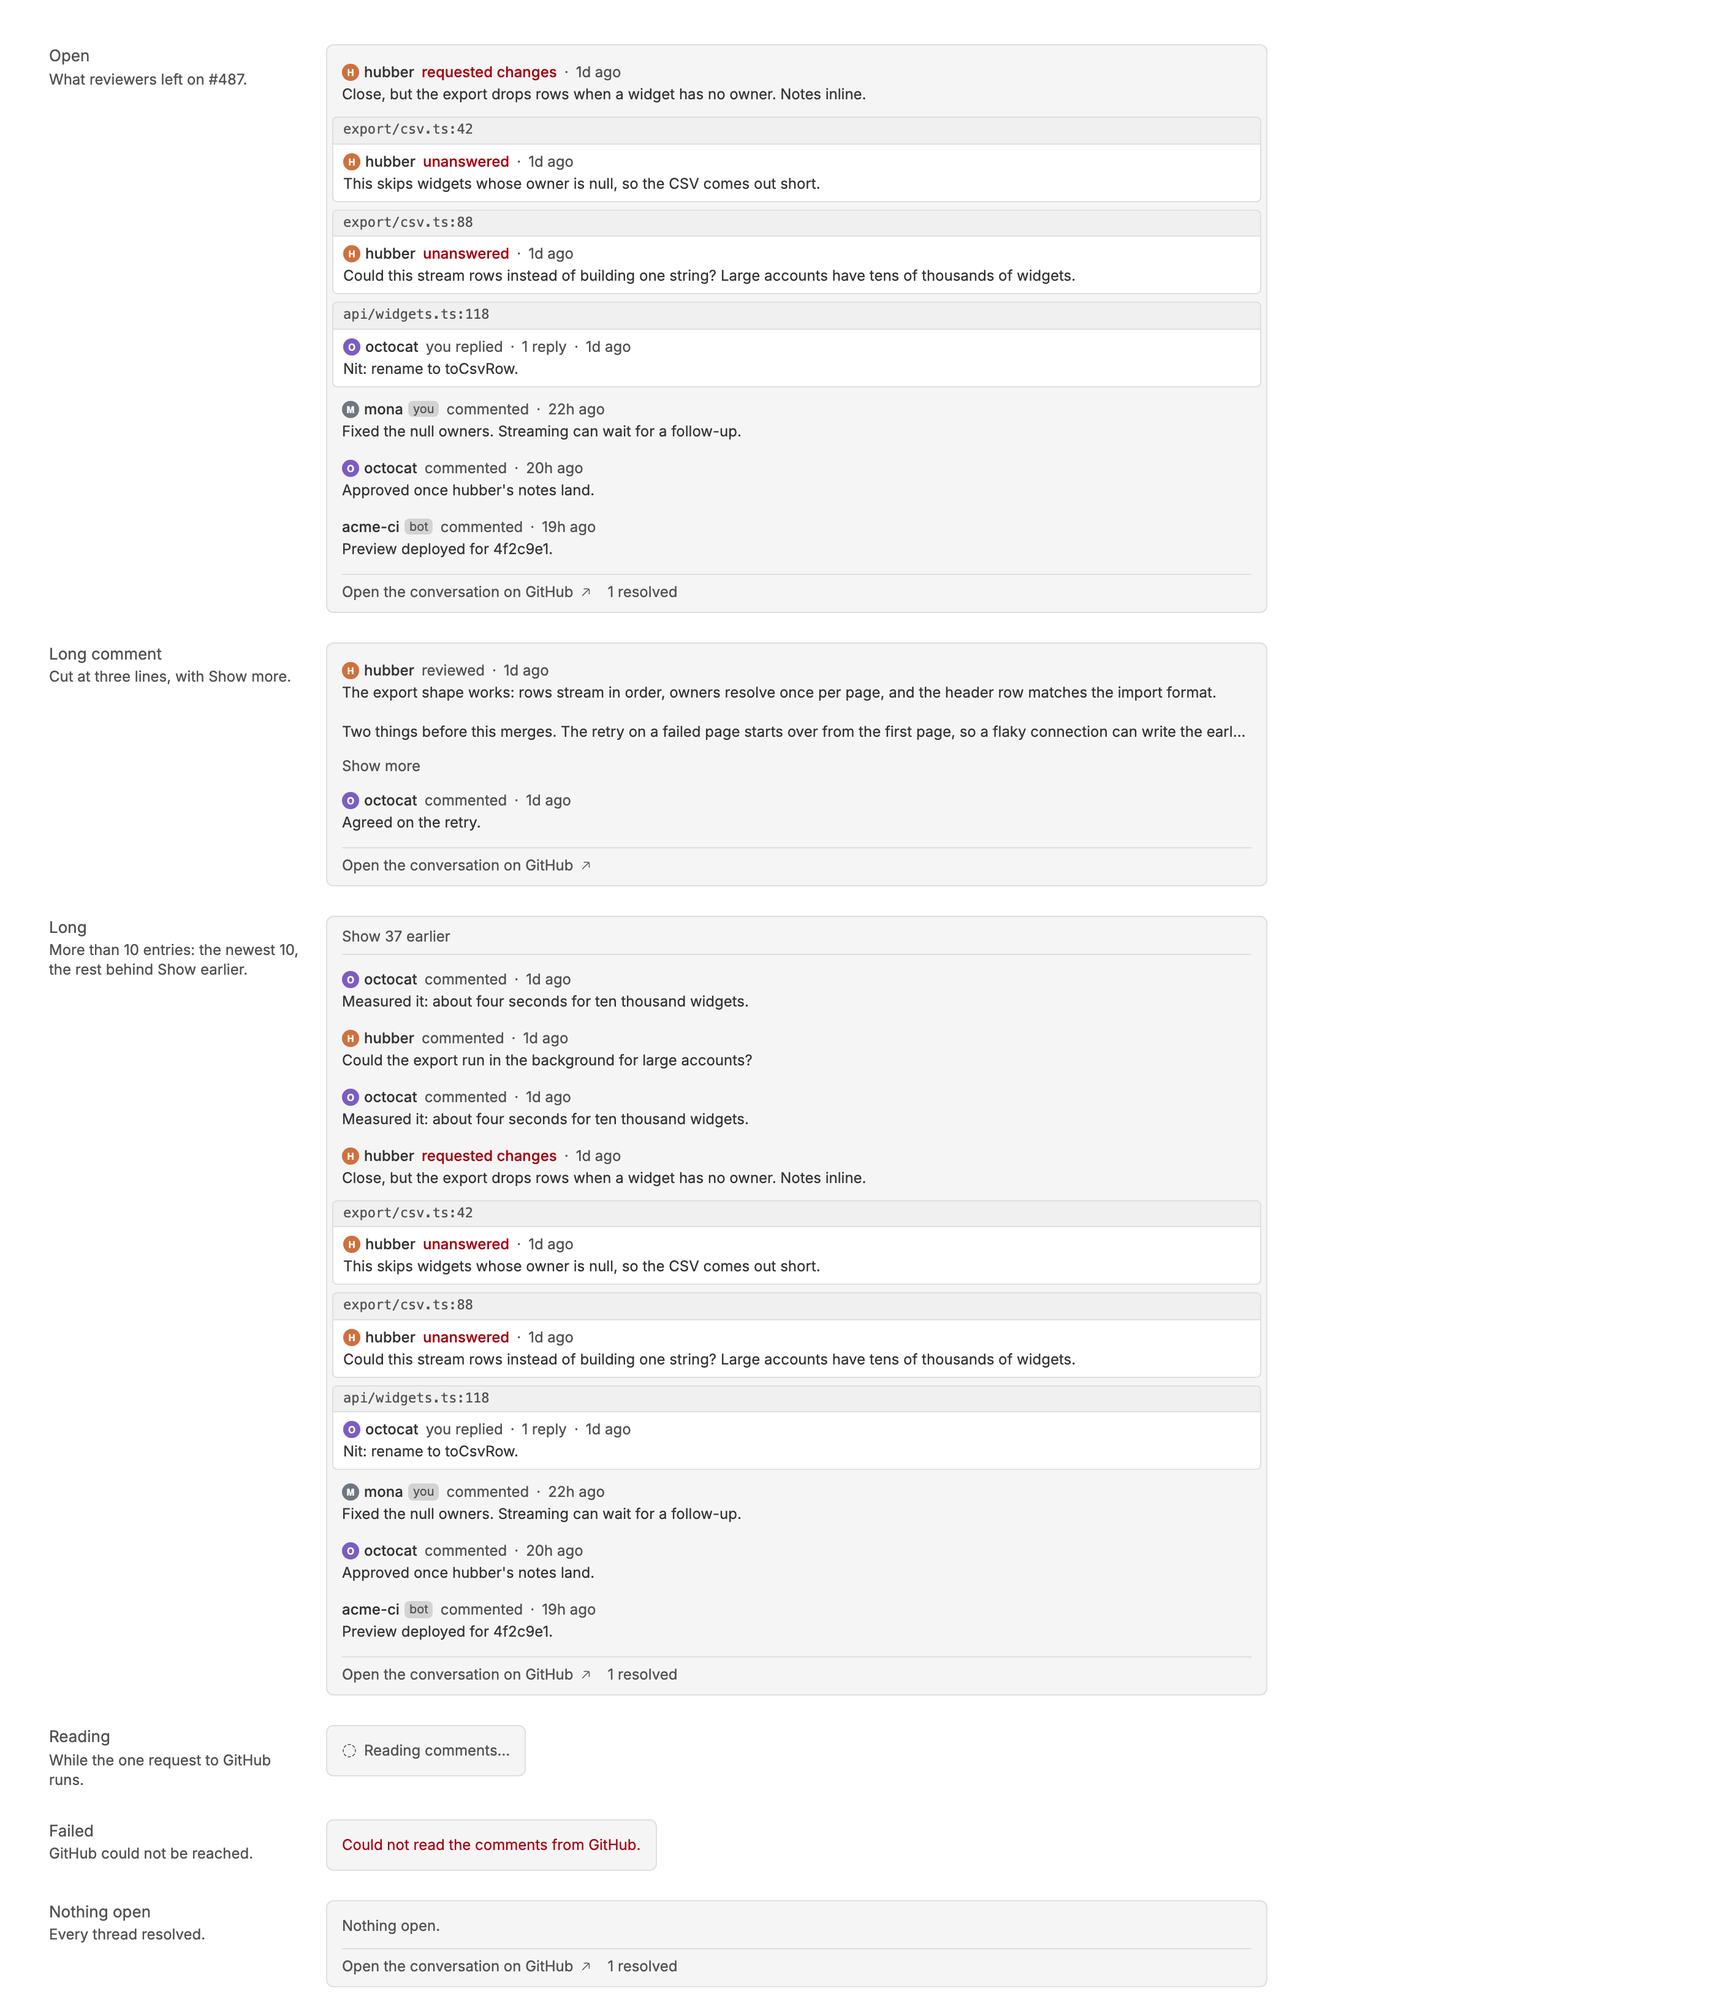
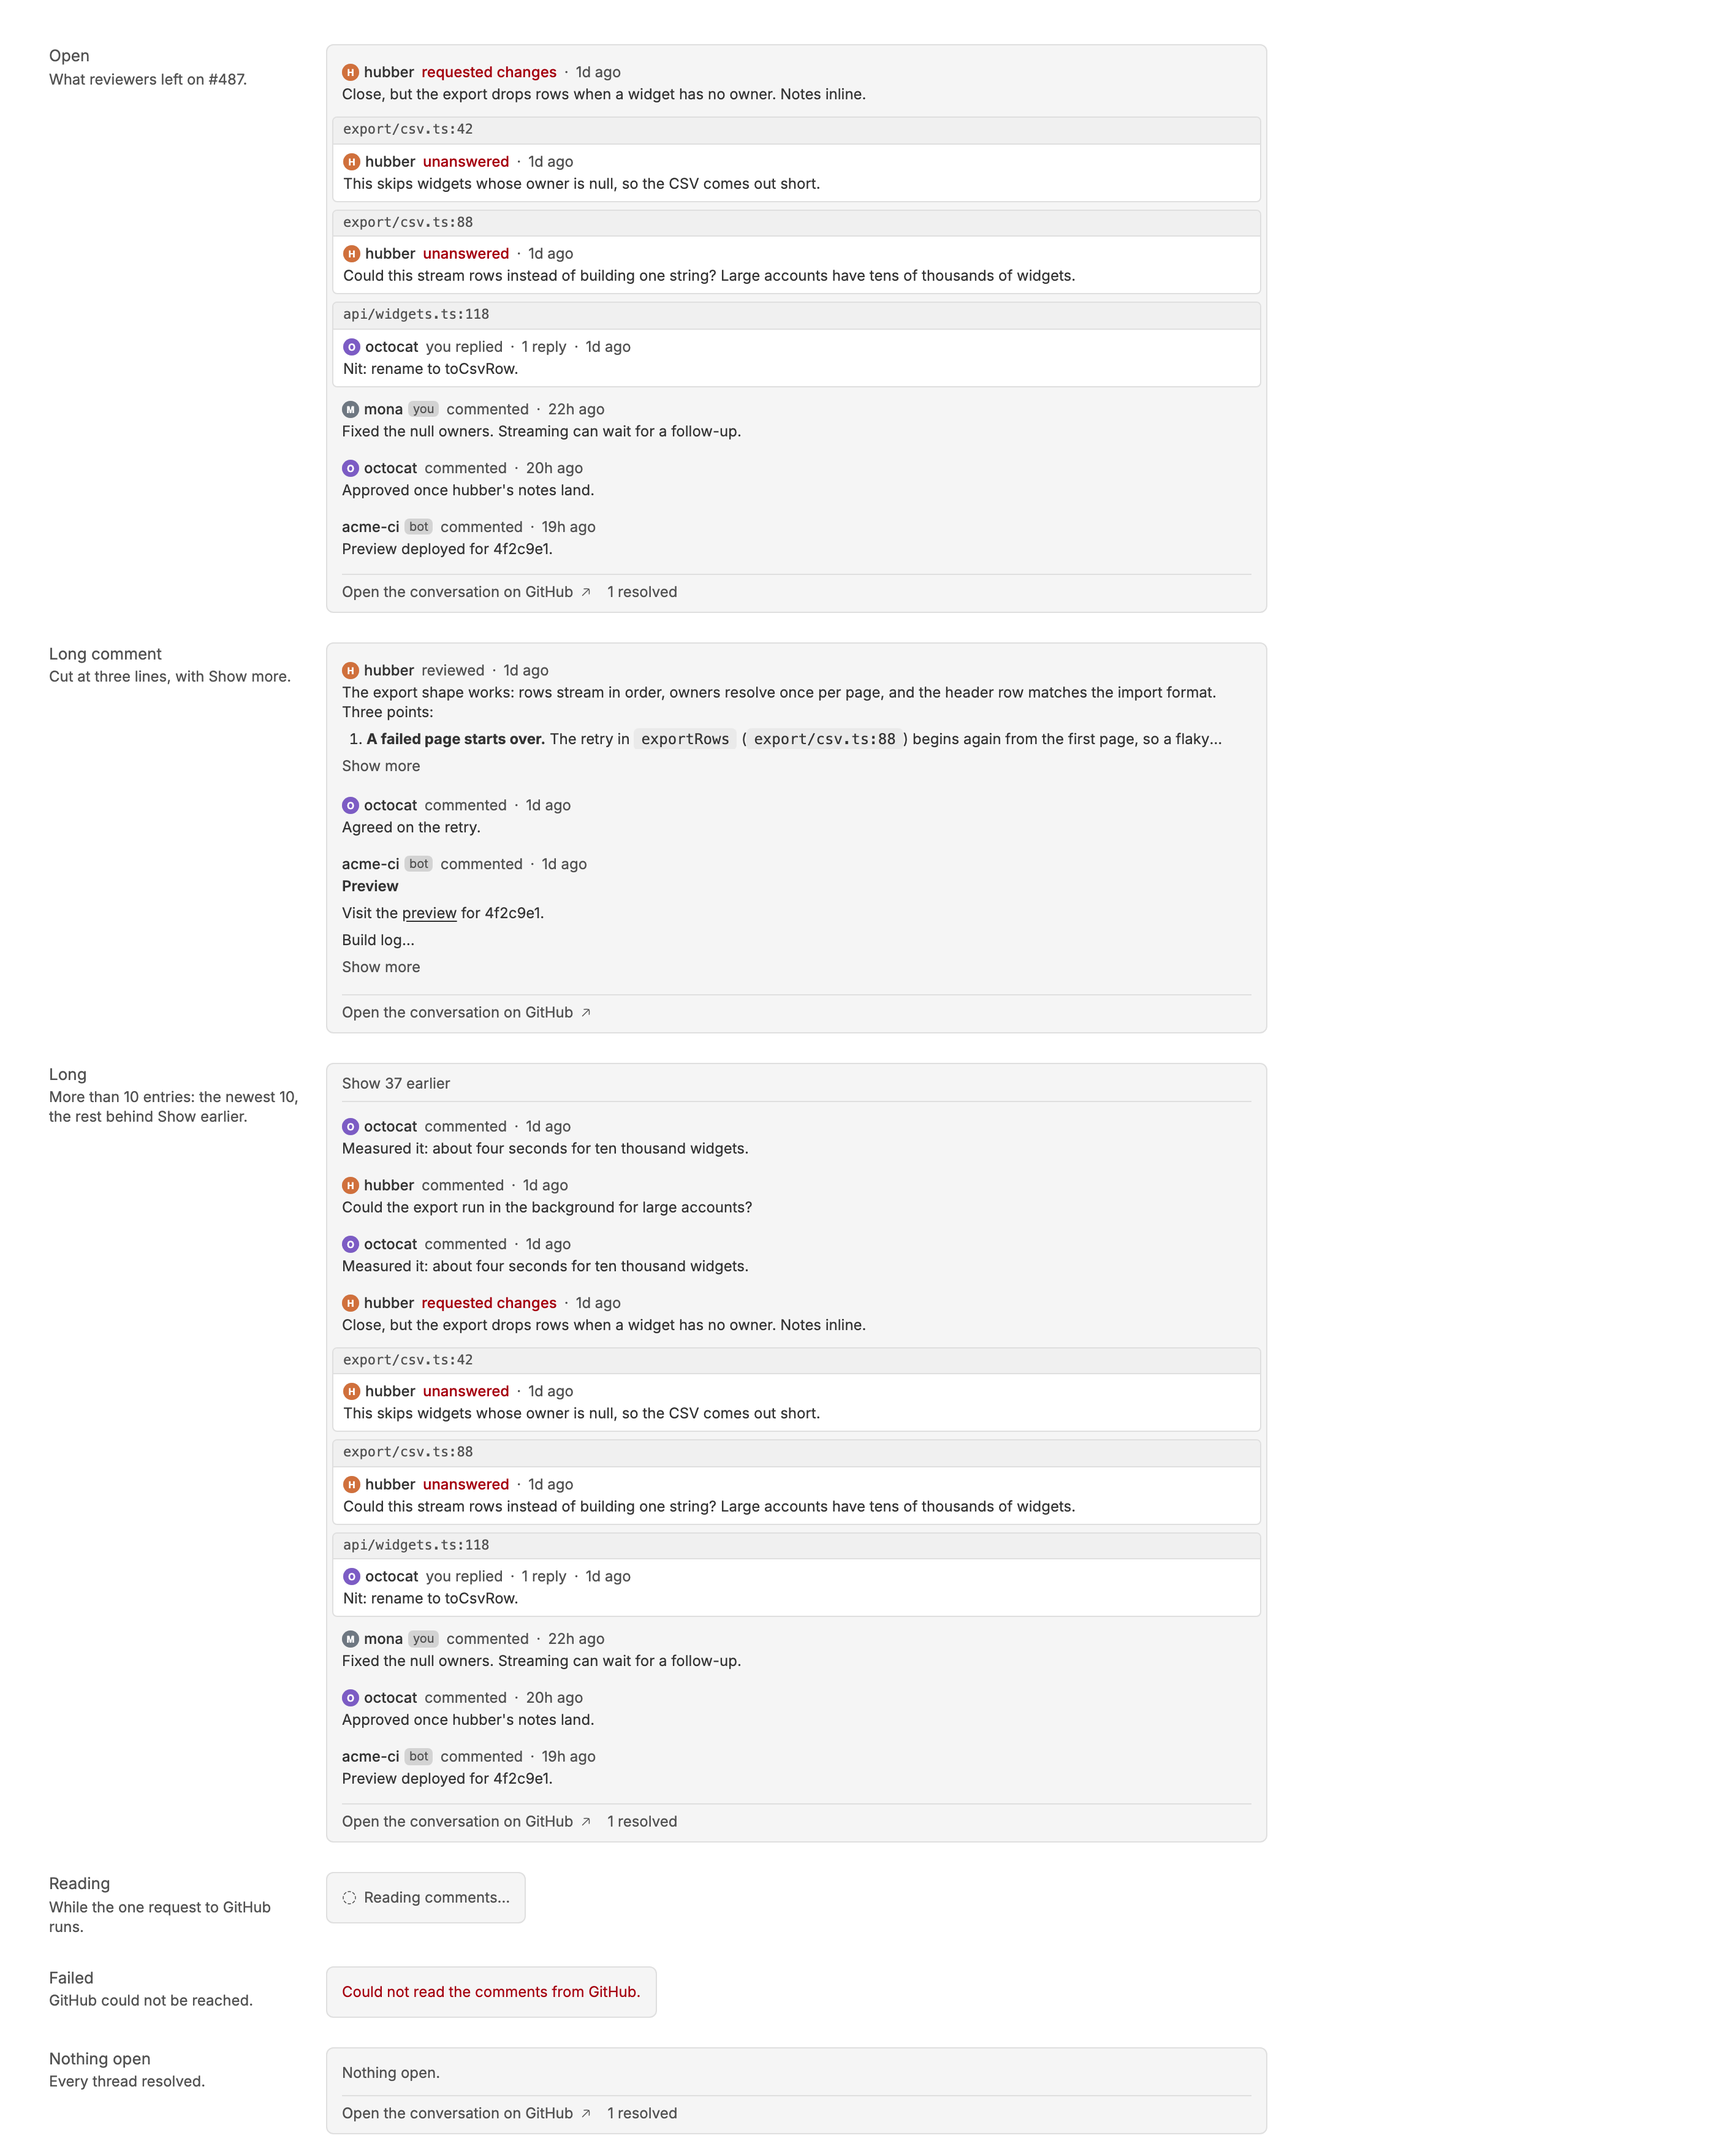
b3a6755 Sweep comments drawer: take HTML tags out of comments
danielbachhuber/bb-plugins@b3a6755dc6cbbb9e7aa60c4baaf4b348e41b8963

diff --git a/pr-sweep/README.md b/pr-sweep/README.md
@@ -22,7 +22,7 @@ Every run the list can draw: needs you, ready to merge, working, drafts, and wai
 
 ### Comments drawer
 
-The drawer a row's comment count opens. The review that requested changes comes first, then the threads still open, unanswered ones marked in red, then general comments. Resolved threads wait behind "1 resolved". Each entry opens on GitHub. A comment longer than three lines is cut there, with Show more under it to read the rest in place. Then a long list, which opens on its newest 10 under "Show 37 earlier", the drawer while it reads, when GitHub fails, and with nothing open.
+The drawer a row's comment count opens. The review that requested changes comes first, then the threads still open, unanswered ones marked in red, then general comments. Resolved threads wait behind "1 resolved". Each entry opens on GitHub. Comments are drawn as the Markdown they were written in, and one longer than three lines is cut there, with Show more under it to read the rest in place. Then a long list, which opens on its newest 10 under "Show 37 earlier", the drawer while it reads, when GitHub fails, and with nothing open.
 
 ![Comments drawer](pr-list--comments-drawer.png)
 
